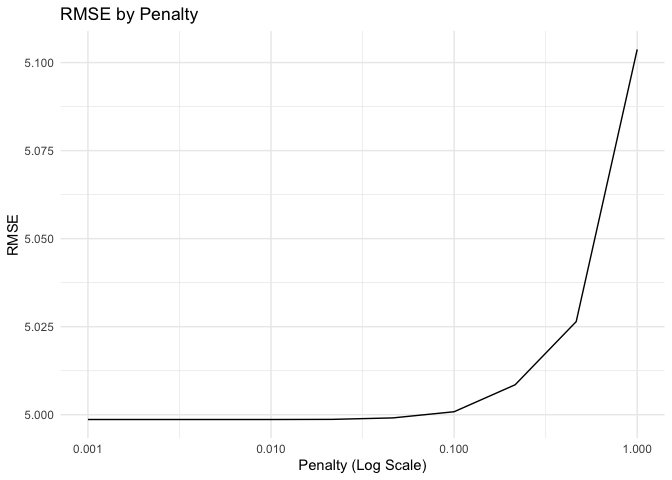
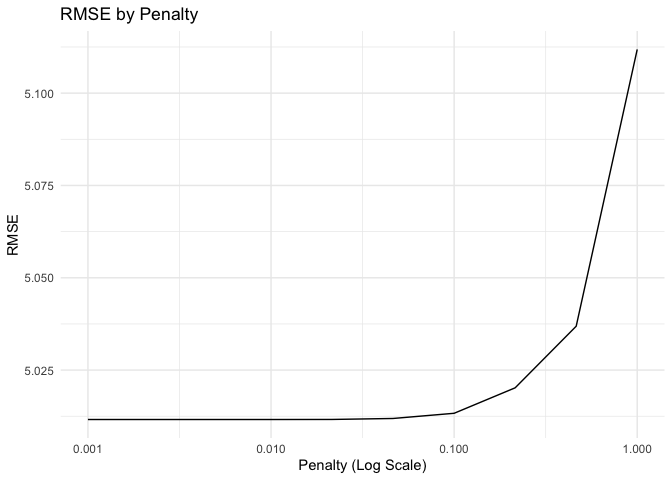
Update for md file

diff --git a/scripts/02-regularization.md b/scripts/02-regularization.md
@@ -23,7 +23,7 @@ coefficients, meaning the coefficients have to contribute substantially
 to minimizing RSS or they’ll be quickly downweighted to 0.
 
 $$ 
-\sum_{i=1}^{n} \left( y_i - \beta_0 - \sum_{j=1}^{p} x_{ij} \beta_j \right)^2 + \lambda \sum_{j=1}^{p} |\beta_j| \right)
+=argmin[\sum_{i=1}^{n} (y_i - \beta_0 - \sum_{j=1}^{p} x_{ij} \beta_j)^2 + \lambda \sum_{j=1}^{p} |\beta_j|]
 $$
 
 ## Libraries
@@ -61,7 +61,7 @@ library(tidymodels)
     ## ✖ dplyr::lag()      masks stats::lag()
     ## ✖ yardstick::spec() masks readr::spec()
     ## ✖ recipes::step()   masks stats::step()
-    ## • Use suppressPackageStartupMessages() to eliminate package startup messages
+    ## • Use tidymodels_prefer() to resolve common conflicts.
 
 ``` r
 library(janitor)
@@ -344,7 +344,7 @@ hs_test%>%
     ## # A tibble: 1 × 3
     ##   .metric .estimator .estimate
     ##   <chr>   <chr>          <dbl>
-    ## 1 rmse    standard       0.643
+    ## 1 rmse    standard       0.648
 
 We can also look at the coefficients to get a sense of what got included
 and what got dropped.
@@ -360,10 +360,10 @@ hs_wf%>%
     ##    term                                              estimate penalty
     ##    <chr>                                                <dbl>   <dbl>
     ##  1 (Intercept)                                        2.93        0.1
-    ##  2 x1txmtscor                                         0.322       0.1
-    ##  3 x1schooleng                                        0.0399      0.1
-    ##  4 x1stuedexpct_High.school.diploma.or.GED           -0.0133      0.1
-    ##  5 x1control_Public                                  -0.00678     0.1
+    ##  2 x1txmtscor                                         0.331       0.1
+    ##  3 x1schooleng                                        0.0441      0.1
+    ##  4 x1stuedexpct_High.school.diploma.or.GED           -0.00463     0.1
+    ##  5 x1control_Public                                  -0.00414     0.1
     ##  6 x1par1edu_Bachelor.s.degree                        0           0.1
     ##  7 x1par1edu_High.school.diploma.or.GED               0           0.1
     ##  8 x1par1edu_Less.than.high.school                    0           0.1
